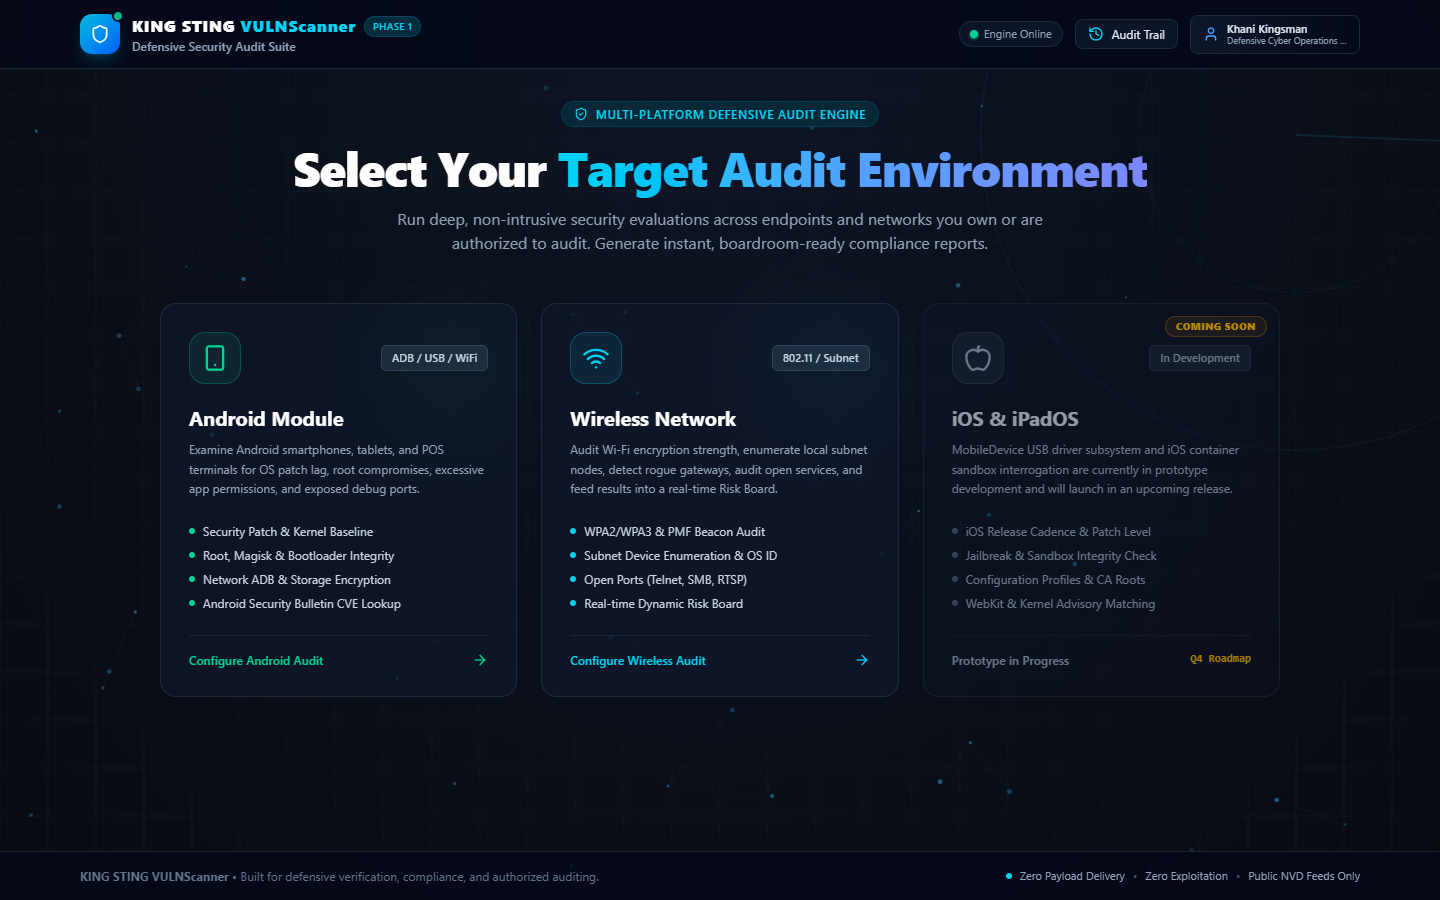
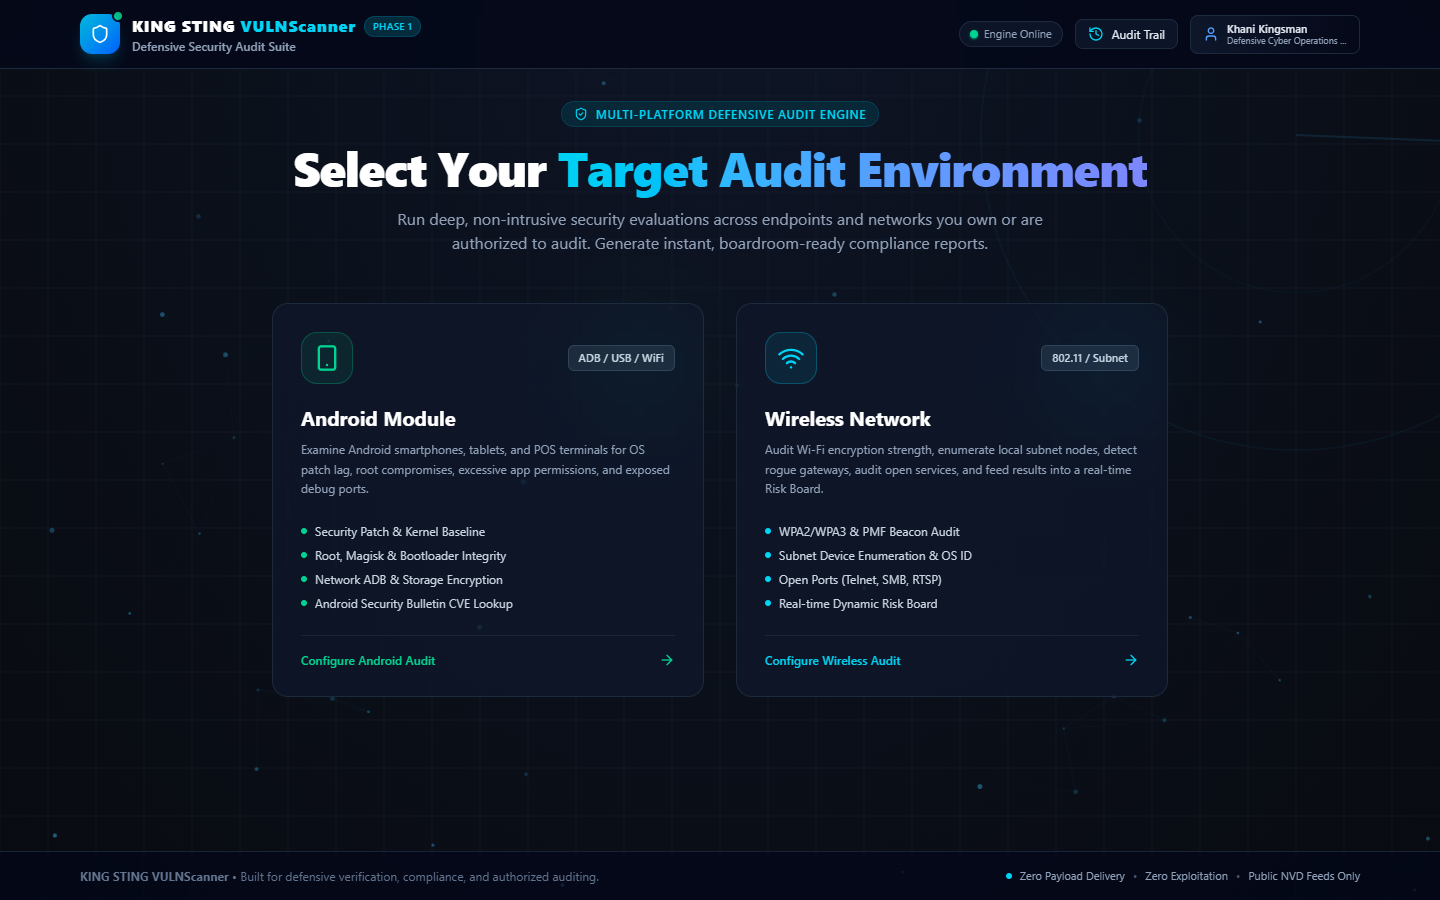
feat: remove iOS card from active desktop interface and document as coming soon on README with updated screenshot

diff --git a/frontend/src/components/modules/LandingCards.tsx b/frontend/src/components/modules/LandingCards.tsx
@@ -1,5 +1,5 @@
 import React from 'react';
-import { Smartphone, Wifi, Apple, ShieldCheck, ArrowRight } from 'lucide-react';
+import { Smartphone, Wifi, ShieldCheck, ArrowRight } from 'lucide-react';
 import type { ScanModule } from '../../types';
 
 interface LandingCardsProps {
@@ -8,7 +8,7 @@ interface LandingCardsProps {
 
 export const LandingCards: React.FC<LandingCardsProps> = ({ onSelectModule }) => {
   return (
-    <div className="w-full max-w-6xl mx-auto py-8 px-4">
+    <div className="w-full max-w-5xl mx-auto py-8 px-4">
       {/* Title / Hero */}
       <div className="text-center mb-12">
         <div className="inline-flex items-center gap-2 px-3 py-1 rounded-full bg-cyan-950/60 border border-cyan-800/40 text-cyan-400 text-xs font-semibold uppercase tracking-wider mb-4">
@@ -24,8 +24,8 @@ export const LandingCards: React.FC<LandingCardsProps> = ({ onSelectModule }) =>
         </p>
       </div>
 
-      {/* Three Big Module Cards */}
-      <div className="grid grid-cols-1 md:grid-cols-3 gap-6">
+      {/* Two Active Module Cards */}
+      <div className="grid grid-cols-1 md:grid-cols-2 gap-8 max-w-4xl mx-auto">
         {/* Android Card */}
         <div
           onClick={() => onSelectModule('android')}
@@ -125,57 +125,6 @@ export const LandingCards: React.FC<LandingCardsProps> = ({ onSelectModule }) =>
           <div className="pt-4 border-t border-slate-800/80 flex items-center justify-between text-xs font-semibold text-cyan-400 group-hover:translate-x-1 transition-transform">
             <span>Configure Wireless Audit</span>
             <ArrowRight className="w-4 h-4" />
-          </div>
-        </div>
-
-        {/* iOS Card - Coming Soon */}
-        <div
-          className="group relative rounded-2xl bg-slate-900/40 border border-slate-800/80 p-6 sm:p-7 transition-all duration-300 opacity-70 cursor-not-allowed flex flex-col justify-between"
-        >
-          <div className="absolute top-3 right-3 px-2.5 py-0.5 rounded-full bg-amber-500/10 border border-amber-500/30 text-amber-400 text-[10px] font-extrabold uppercase tracking-wider">
-            Coming Soon
-          </div>
-
-          <div>
-            <div className="flex items-center justify-between mb-5">
-              <div className="flex items-center justify-center w-13 h-13 rounded-2xl bg-slate-800/60 border border-slate-700/60 text-slate-400">
-                <Apple className="w-7 h-7" />
-              </div>
-              <span className="px-2.5 py-1 rounded-md bg-slate-800/60 text-[11px] font-semibold text-slate-400 border border-slate-700/50">
-                In Development
-              </span>
-            </div>
-
-            <h3 className="text-xl font-bold text-slate-300 mb-2">
-              iOS & iPadOS
-            </h3>
-            <p className="text-xs text-slate-400 mb-6 leading-relaxed">
-              MobileDevice USB driver subsystem and iOS container sandbox interrogation are currently in prototype development and will launch in an upcoming release.
-            </p>
-
-            <div className="space-y-2 mb-6">
-              <div className="flex items-center gap-2 text-xs text-slate-400">
-                <span className="w-1.5 h-1.5 rounded-full bg-slate-600" />
-                <span>iOS Release Cadence & Patch Level</span>
-              </div>
-              <div className="flex items-center gap-2 text-xs text-slate-400">
-                <span className="w-1.5 h-1.5 rounded-full bg-slate-600" />
-                <span>Jailbreak & Sandbox Integrity Check</span>
-              </div>
-              <div className="flex items-center gap-2 text-xs text-slate-400">
-                <span className="w-1.5 h-1.5 rounded-full bg-slate-600" />
-                <span>Configuration Profiles & CA Roots</span>
-              </div>
-              <div className="flex items-center gap-2 text-xs text-slate-400">
-                <span className="w-1.5 h-1.5 rounded-full bg-slate-600" />
-                <span>WebKit & Kernel Advisory Matching</span>
-              </div>
-            </div>
-          </div>
-
-          <div className="pt-4 border-t border-slate-800/60 flex items-center justify-between text-xs font-semibold text-slate-400">
-            <span>Prototype in Progress</span>
-            <span className="text-[11px] text-amber-400/90 font-mono">Q4 Roadmap</span>
           </div>
         </div>
       </div>

diff --git a/README.md b/README.md
@@ -21,11 +21,12 @@
 
 ![KING STING VULNScanner Desktop Dashboard](docs/screenshots/dashboard.png)
 
-**KING STING VULNScanner** is a cross-platform desktop security audit suite engineered for security professionals, IT administrators, and individuals managing BYOD environments. The application provides structured, defensible, and non-destructive posture evaluations across three primary vectors:
+**KING STING VULNScanner** is a cross-platform desktop security audit suite engineered for security professionals, IT administrators, and individuals managing BYOD environments. The application provides structured, defensible, and non-destructive posture evaluations across two active primary vectors:
 
-1. **Wireless Local Subnets & Network Infrastructure**
-2. **Android Mobile Endpoints (Physical USB & Wireless ADB)**
-3. **iOS & iPadOS Hardware & Profiles** *(Coming Soon — In Active Development / Q4 Roadmap)*
+1. **Android Mobile Endpoints (Physical USB & Wireless ADB)**
+2. **Wireless Local Subnets & Network Infrastructure**
+
+*(An expanded **iOS & iPadOS Hardware & Profiles** audit subsystem is currently in active development and scheduled for an upcoming release — see [Section 3](#3-ios-ipados--macos-module-coming-soon--under-development)).*
 
 Audits produce structured telemetry, identify misconfigurations or unpatched components, correlate findings against official CVE bulletins, and generate signed compliance records.
 
@@ -62,7 +63,7 @@ All assessment routines adhere strictly to non-destructive auditing standards:
 ### 3. iOS, iPadOS & macOS Module `[Coming Soon / Under Development]`
 
 > [!NOTE]
-> The iOS and iPadOS interrogation subsystem is currently in active prototype development and slated for release in an upcoming update. The module is temporarily disabled in the desktop UI while native MobileDevice USB abstractions and protocol drivers are finalized.
+> The iOS and iPadOS interrogation subsystem is currently in active prototype development and slated for an upcoming release. The module has been removed from the active desktop UI while native MobileDevice USB abstractions and protocol drivers are finalized.
 
 * **Apple Network Attack Surface**: Interrogates active Apple network services including mDNS/Bonjour (5353), AirPlay (7000), APNs (5223), and MobileDevice Lockdownd (62078).
 * **Build & Firmware Cadence**: Validates iOS/iPadOS release version against Apple Security Bulletins and active zero-day advisories (e.g. WebKit CVE-2024-23222, CVE-2023-42916).
